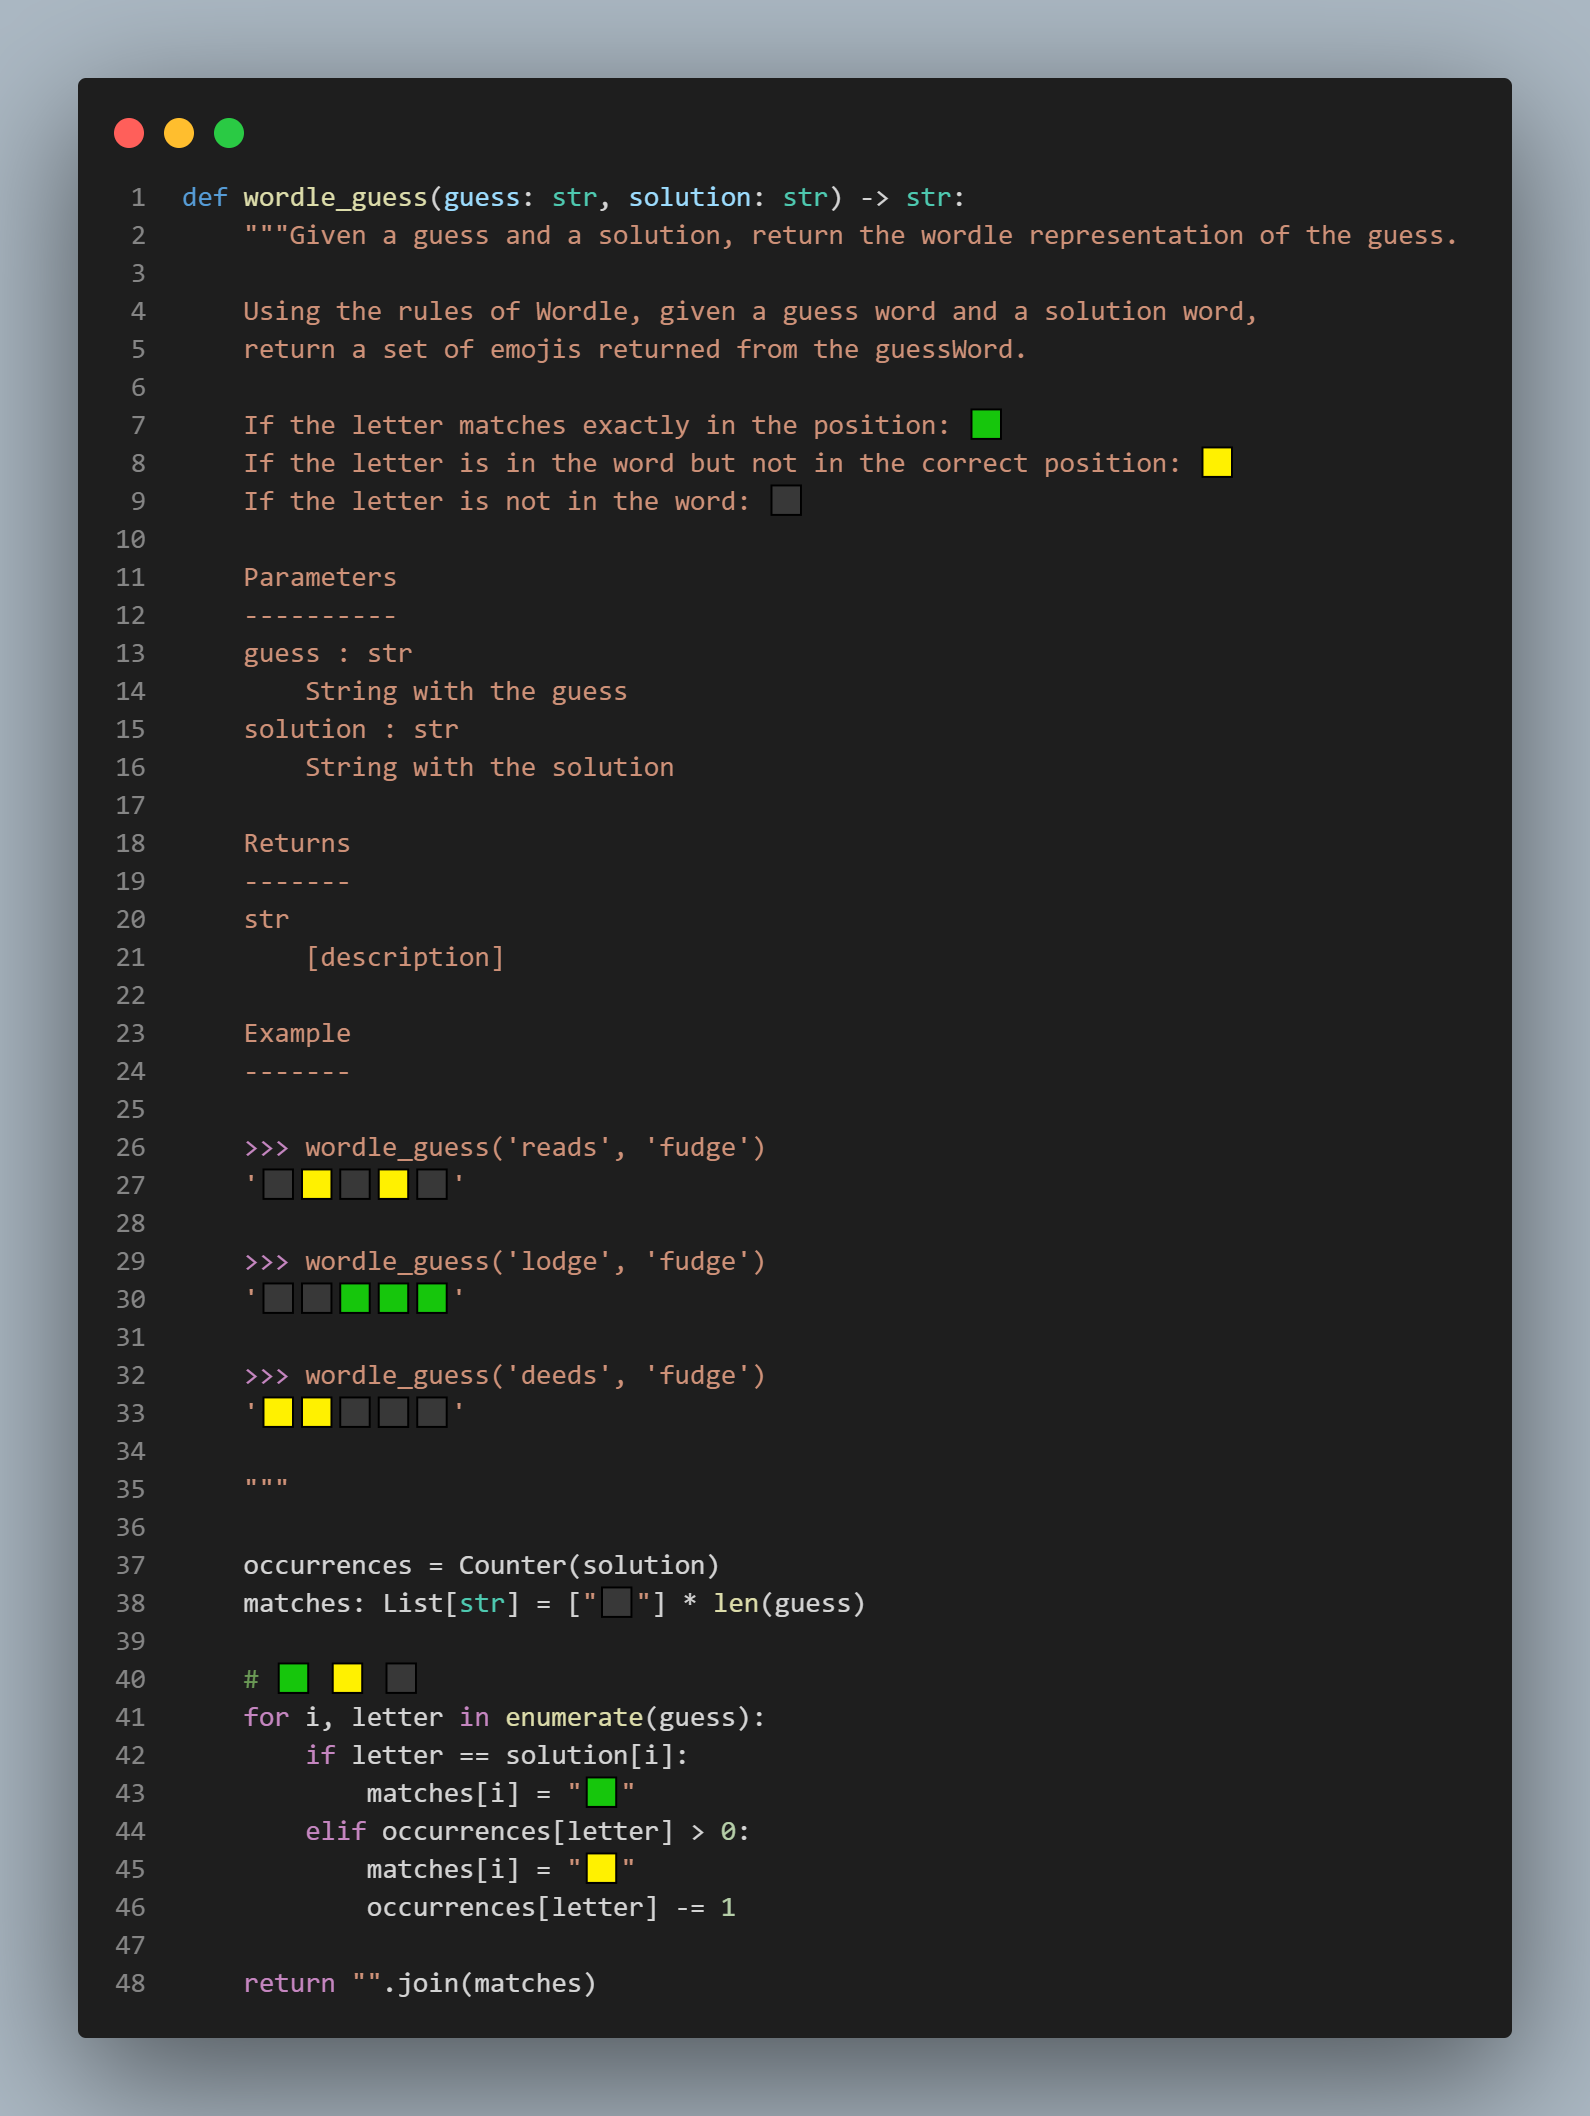
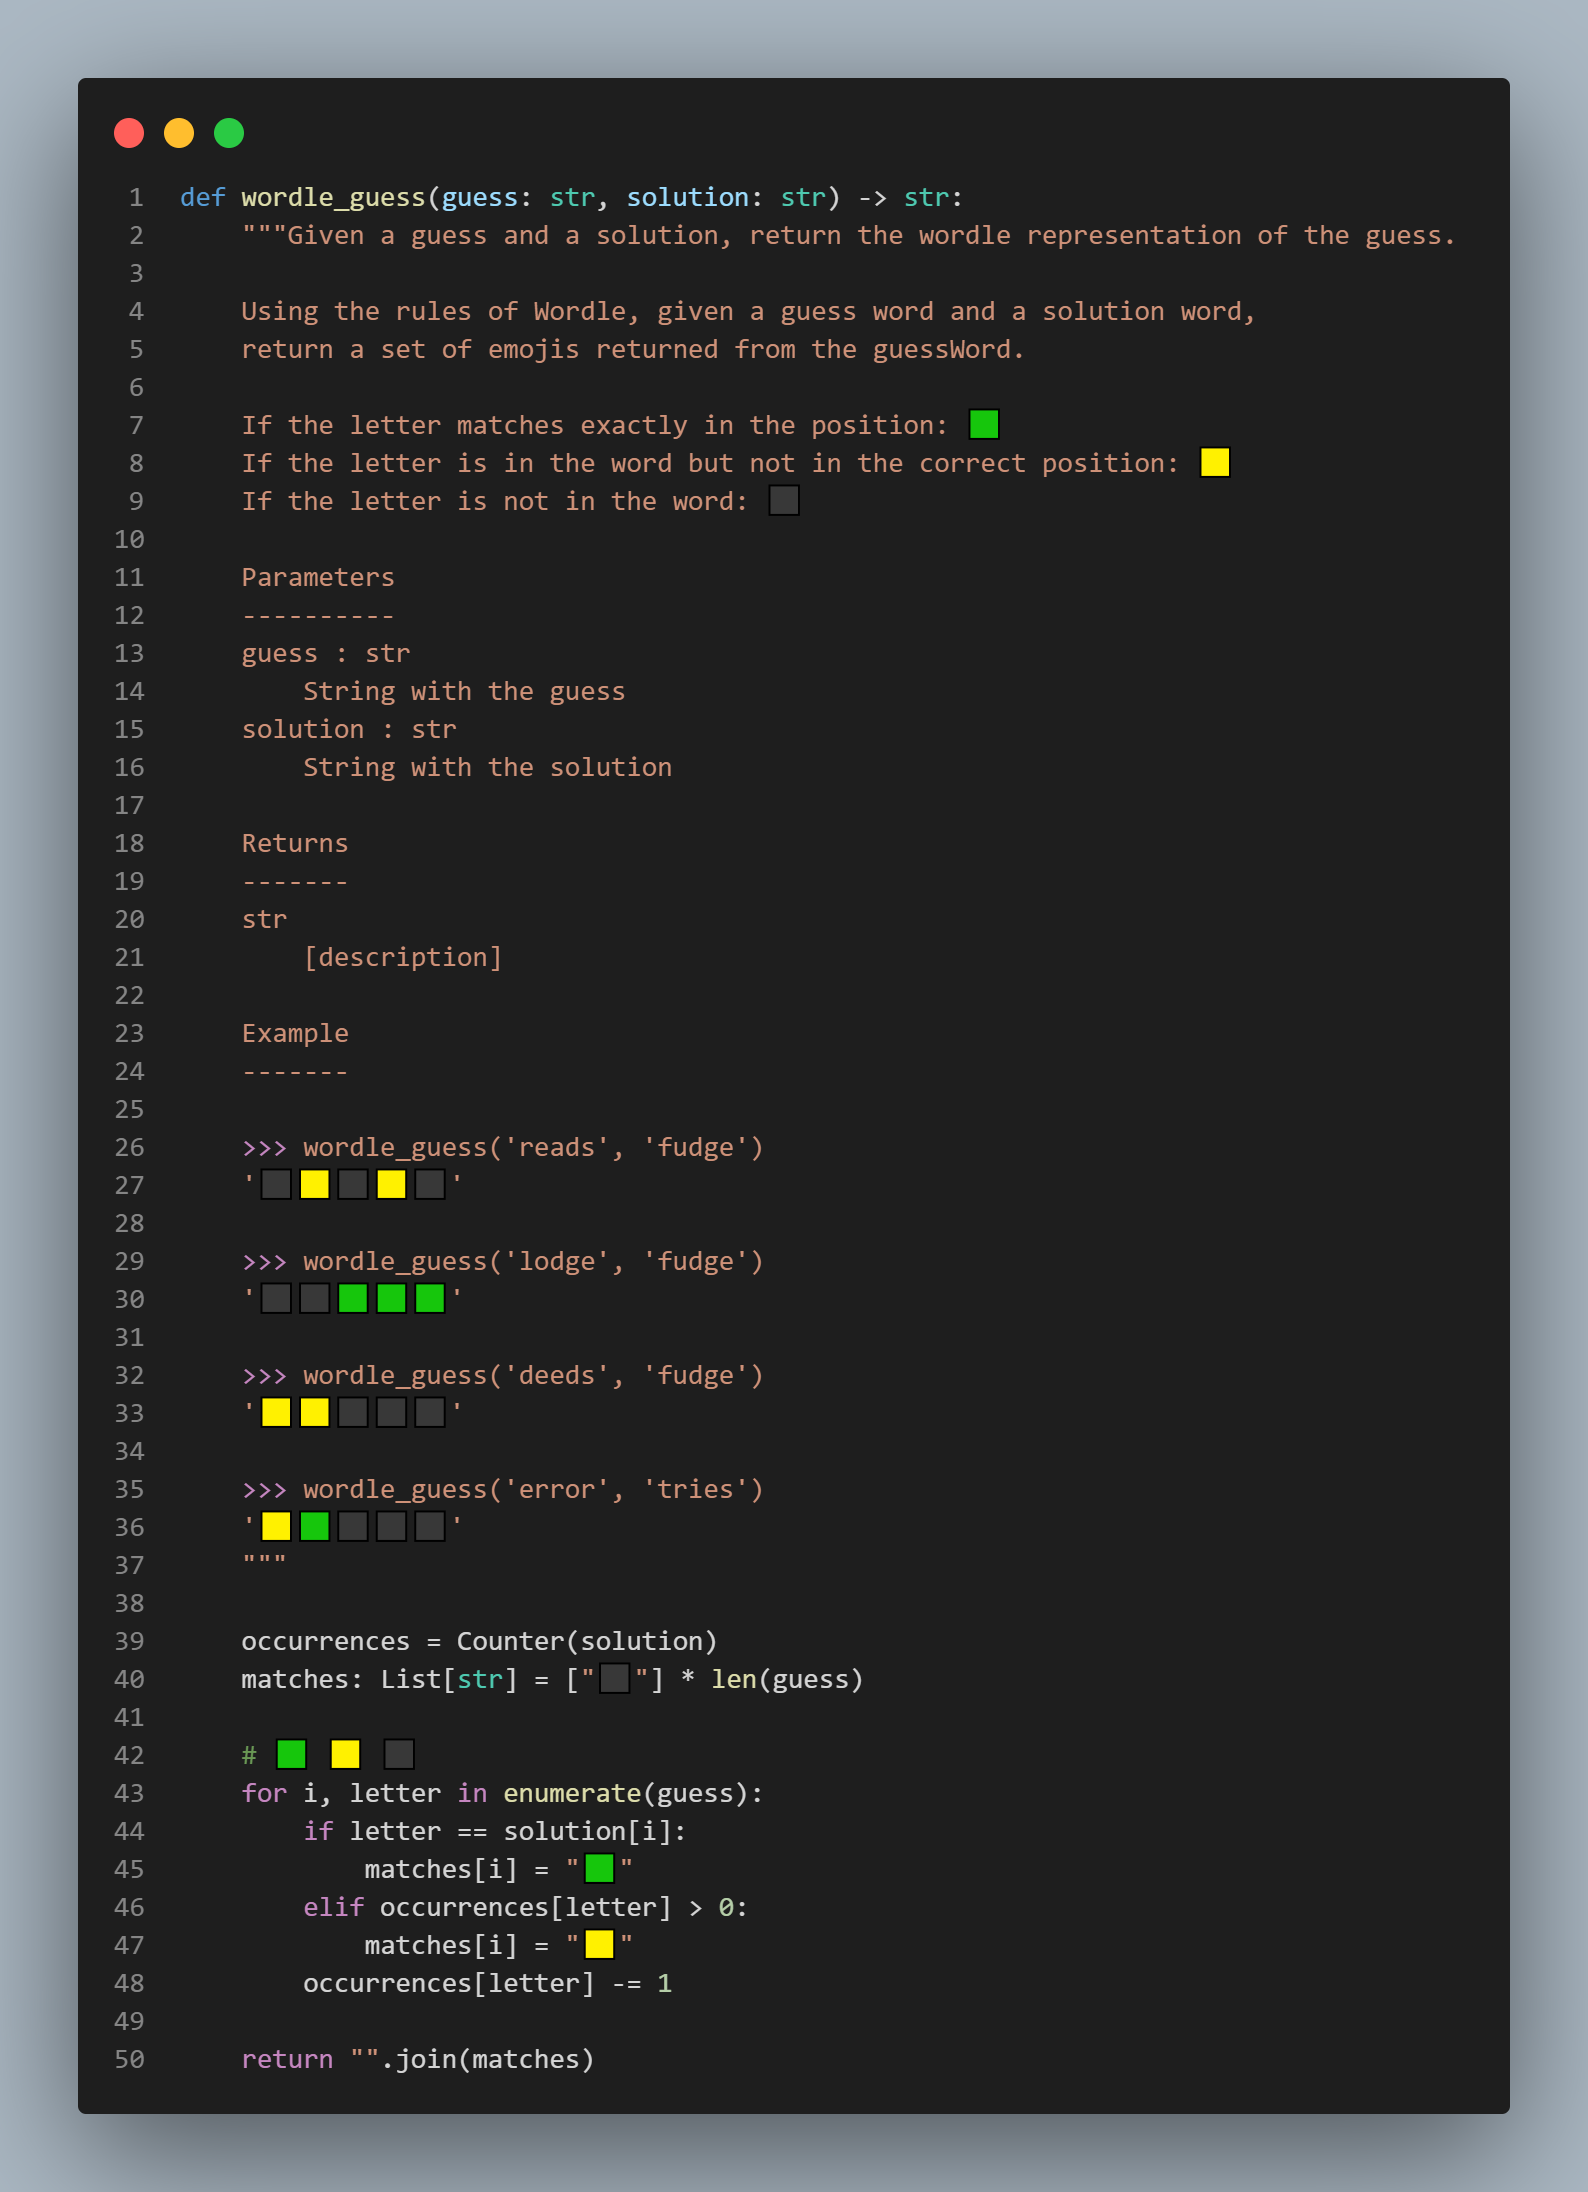
Another fix!

diff --git a/2022-01-17.py b/2022-01-17.py
@@ -36,6 +36,8 @@ def wordle_guess(guess: str, solution: str) -> str:
     >>> wordle_guess('deeds', 'fudge')
     '🟨🟨⬛⬛⬛'
 
+    >>> wordle_guess('error', 'tries')
+    '🟨🟩⬛⬛⬛'
     """
 
     occurrences = Counter(solution)
@@ -47,7 +49,7 @@ def wordle_guess(guess: str, solution: str) -> str:
             matches[i] = "🟩"
         elif occurrences[letter] > 0:
             matches[i] = "🟨"
-            occurrences[letter] -= 1
+        occurrences[letter] -= 1
 
     return "".join(matches)
 
